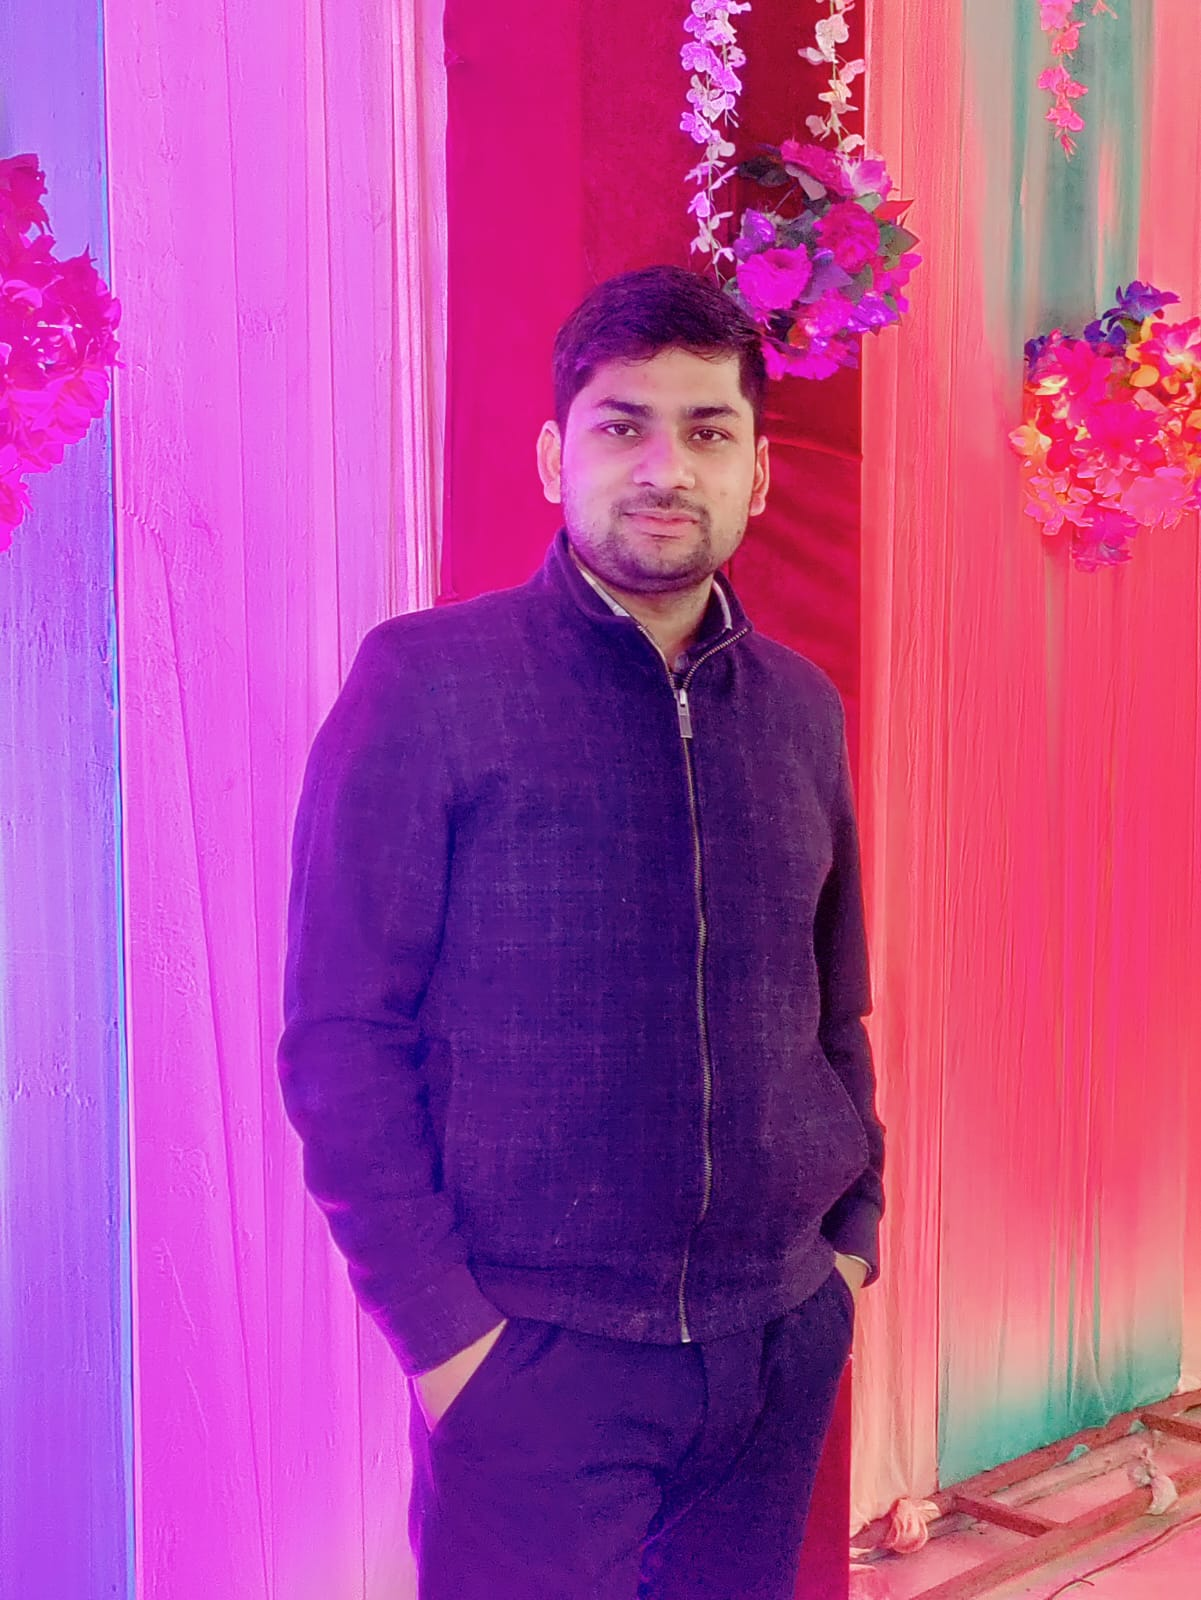
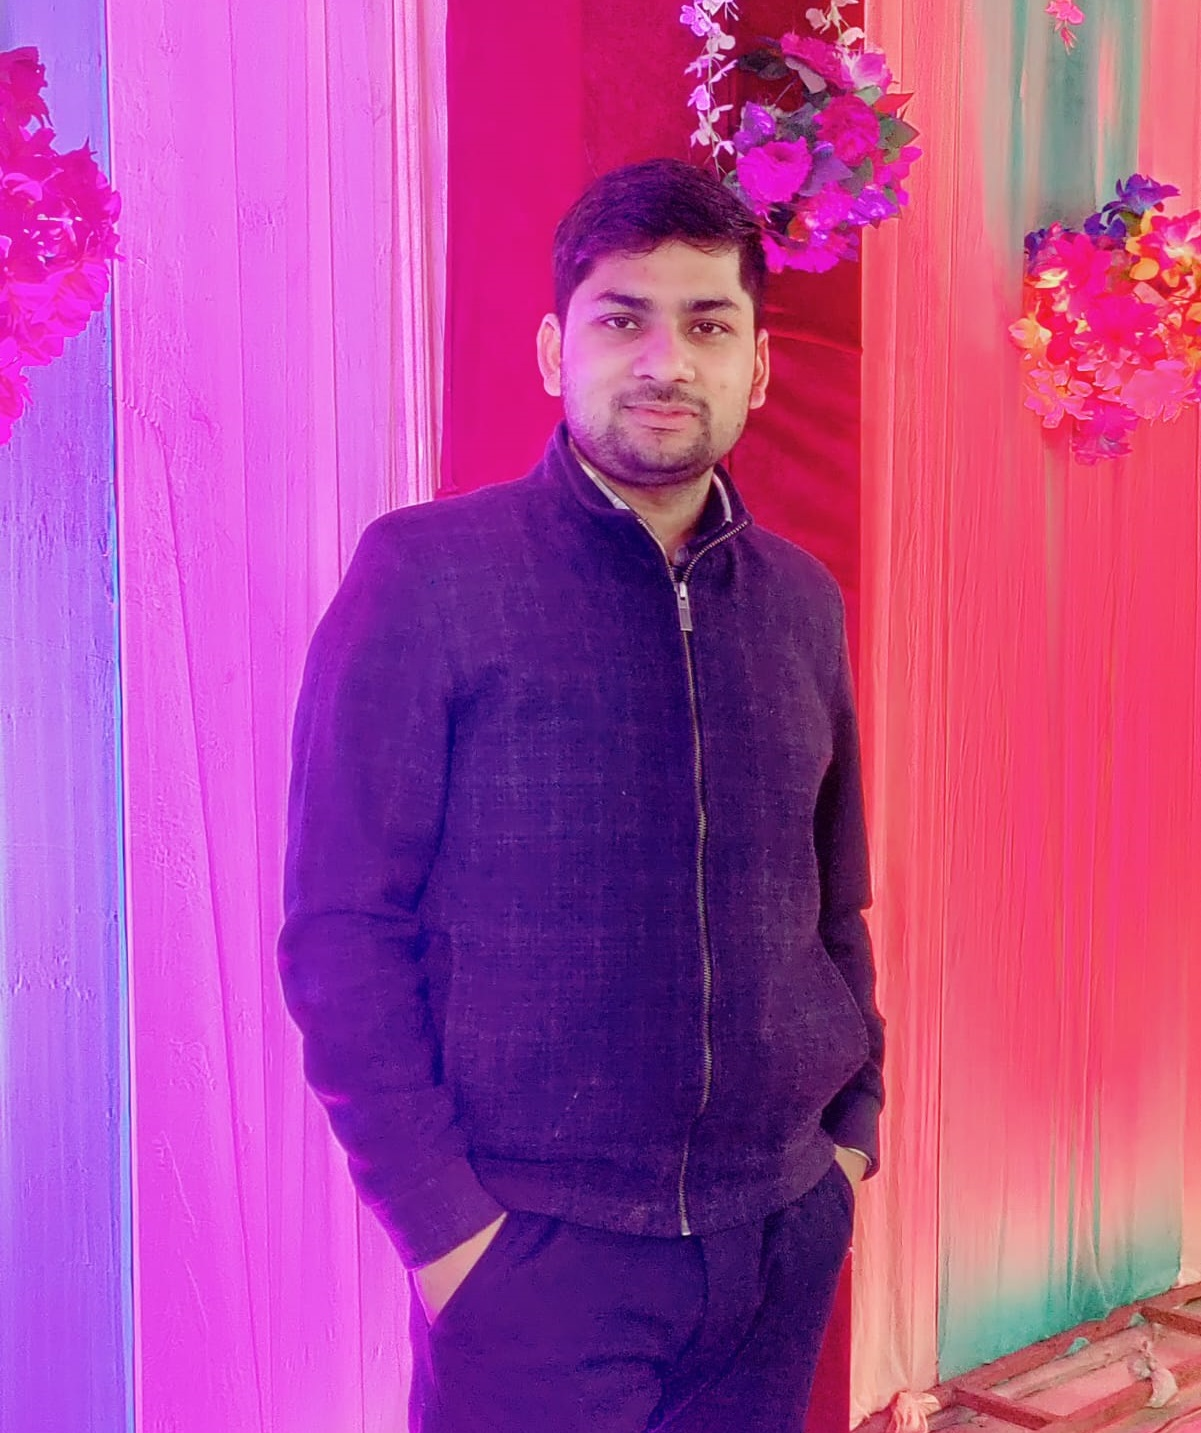
changes taken

diff --git a/static/css/main.css b/static/css/main.css
@@ -1,15 +1,14 @@
-*{
+* {
     margin: 0;
     padding: 0;
     box-sizing: border-box;
 }
-body{
+
+body {
     font-family: 'Poppins', sans-serif;
 }
 
 /* Navigation bar */
-
-/* Basic styling for navigation */
 ul.nav-menu {
     list-style: none;
     display: flex;
@@ -18,12 +17,10 @@ ul.nav-menu {
     justify-content: right;
 }
 
-/* Styling for each menu item */
 ul.nav-menu li {
     margin-right: 15px;
 }
 
-/* Styling for links within the menu */
 ul.nav-menu li a {
     text-decoration: none;
     color: #fff;
@@ -31,13 +28,11 @@ ul.nav-menu li a {
     transition: background-color 0.3s ease;
 }
 
-/* Change link color on hover */
 ul.nav-menu li a:hover {
     background-color: #4e0707;
 }
 
 /* Name content */
-
 .banner-container {
     position: relative;
     width: 100%;
@@ -49,7 +44,6 @@ ul.nav-menu li a:hover {
     width: 100%;
     height: 100%;
     object-fit: cover;
-    image-rendering: optimizeQuality; 
 }
 
 .text-container {
@@ -58,7 +52,7 @@ ul.nav-menu li a:hover {
     left: 50%;
     transform: translate(-50%, -50%);
     text-align: center;
-    color: #fff; /* Text color for better contrast */
+    color: #fff;
     font-family: 'Arial', sans-serif;
 }
 
@@ -67,55 +61,36 @@ h1 {
     margin: 0;
 }
 
-/* This is for the main content */
-
-/* This is for About me */
+/* Main content */
 .header-container {
     text-align: center;
 }
 
 .header1 {
-    font-family:'Trebuchet MS', 'Lucida Sans Unicode', 'Lucida Grande', 'Lucida Sans', Arial, sans-serif;
+    font-family: 'Trebuchet MS', 'Lucida Sans Unicode', 'Lucida Grande', 'Lucida Sans', Arial, sans-serif;
     color: #483c32;
     padding: 50px;
     text-transform: uppercase;
     margin: 5px;
-    margin-left: 120px;
-    font-size: 1.75em;
+    /* margin-left: 120px; */
+    font-size: 1.75rem;
     letter-spacing: 2px;
 }
-
-/* This is boxes for profile image and boxex */
-
-.info_AboutMe{
-    width: 100%;
-    /* height: 300px; */
-    /* border: 4px solid red; */
-    /* border-radius: 10px; */
-    margin-top: 10px;
+.main-info{
     display: flex;
-    flex-wrap: wrap;
-    justify-content: center;
+    /* width: 50vh; */
+    height: 60vh;
+    padding-left: 15vmin;
 }
-.imgAboutMe{
-    height: 350px;
-
-}
-.imgAboutMe img{
-    max-width: 100%;
-    max-height: 100%;
+.main-info img{
+    width: auto;
+    height: auto;
+    object-fit: fill; 
     display: block;
     border-radius: 50%;
 }
-.contentAboutMe{
-    width: 47.5%;
-    height: 400px;   
-    margin-left: 15%;
-    border-radius: 10px;
-    margin-right: 8%;
-    line-height: 1.5;
-}
-div{
- 
-    border: 4px solid red;   
+.content{
+    padding-left: 20vmin;
+    padding-right: 20vmin;
+    
 }

diff --git a/index.html b/index.html
@@ -3,9 +3,8 @@
   <head>
     <meta charset="UTF-8" />
     <meta name="viewport" content="width=device-width, initial-scale=1.0" />
-    <link rel="stylesheet" href="static/css/main.css">
+    <link rel="stylesheet" href="static/css/main.css" />
     <title></title>
-    
   </head>
   <body>
     <!-- This is a header section -->
@@ -40,27 +39,11 @@
       <h1 class="header1">About Me</h1>
       <!-- Add additional text or elements as needed -->
     </div>
-    <div class="info_AboutMe">
-      <div class="imgAboutMe"><img src="static/images/mypic.jpg" alt=""></div>
-        <div class="contentAboutMe">
-                <p>
-                Hello, My name is Kanishk and I'm from Meerut located in West Uttar
-                Pradesh. <br /><br />
-                I am a dedicated student of IIT Madras pursuing B.S in Data Science
-                and Application, Where I learnt concept of Statistics, DBMS, ML, App
-                Dev, Apart from This I have completed B.Sc in Physical Science from
-                IIMT University Meerut where I study the essence of applied
-                Mathematics.<br /><br />
-                I have a keen interest in the field of Data Science, ML, AI, Deep
-                learning and related technology. I'm presently learning and working on
-                skills required to expertise in these. <br /><br />
-                My hobbies are listening music, travelling, reading Newspaper.
-                I am a firm beliver of passion and politeness.
-                </p>
-        </div>
-    </div>
-
 
     <!-- This is main skills section -->
+    <div class="main-info">
+      <img src="static/images/mypic.jpg" alt="Profile picture">
+      <div class="content">Lorem ipsum dolor sit amet consectetur adipisicing elit. Labore accusantium sit, dolores, vitae, esse consectetur est quasi quas nesciunt tempore non natus! Corporis magnam beatae modi! Pariatur rem nesciunt dolorem.</div>
+    </div>
   </body>
 </html>
